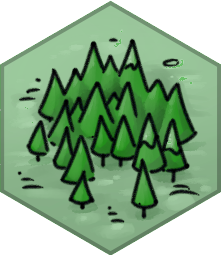
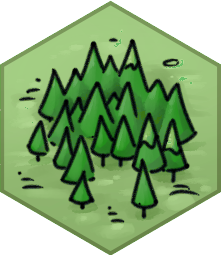
feat: add temperate forest terrain variant and update map generation logic; bump map generation version to 20

diff --git a/src/components/TerrainIcon.tsx b/src/components/TerrainIcon.tsx
@@ -4,6 +4,7 @@ import desertTileCactus from '../assets/terrain/desert-tile-cactus.png'
 import desertTileDunes from '../assets/terrain/desert-tile-dunes.png'
 import desertTileScrub from '../assets/terrain/desert-tile-scrub.png'
 import desertHillTile from '../assets/terrain/desert-hill-tile.png'
+import forestTile from '../assets/terrain/forest-tile.png'
 import forestTileFull from '../assets/terrain/forest-tile-full.png'
 import hillTile from '../assets/terrain/hill-tile.png'
 import hillTileFew from '../assets/terrain/hill-tile-few.png'
@@ -35,7 +36,7 @@ const TERRAIN_VARIANTS: Partial<Record<Terrain, readonly string[]>> = {
     plainTileBush,
     plainTileTrees,
   ],
-  forest: [forestTileFull],
+  forest: [forestTileFull, forestTile],
   hill: [hillTileFew, hillTile],
   mountain: [mountainTileFull, mountainTilePeak],
   water: [waterTile],

diff --git a/src/game/mapGenerator.ts b/src/game/mapGenerator.ts
@@ -36,6 +36,7 @@ const STARTING_RESOURCES = 15
 const MAX_GENERATION_ATTEMPTS = 128
 const STANDARD_CAPITAL_DISTANCE = 18
 const STANDARD_CAPITAL_DISTANCE_REFERENCE_COLUMNS = 42
+const OASIS_FEATURE_THRESHOLD = 0.95
 const SITE_PAIR_TYPES: readonly SiteType[] = ['village', 'farm', 'mine']
 const STARTING_UNIT_TYPES: readonly UnitType[] = [
   'infantry',
@@ -176,7 +177,7 @@ function terrainFromNoise(
   }
   if (adjustedMoisture > 0.61) return 'forest'
   if (adjustedMoisture < 0.4 && temperature > 0.58) {
-    return featureNoise > 0.97 ? 'oasis' : 'desert'
+    return featureNoise > OASIS_FEATURE_THRESHOLD ? 'oasis' : 'desert'
   }
   return 'plain'
 }

diff --git a/src/components/TerrainIcon.test.tsx b/src/components/TerrainIcon.test.tsx
@@ -36,6 +36,21 @@ describe('TerrainIcon', () => {
     )
   })
 
+  it.each([0, 1])('renders temperate forest variant %s', (variantIndex) => {
+    const { container } = render(
+      <TerrainIcon terrain="forest" variantIndex={variantIndex} />,
+    )
+
+    expect(container.querySelector('img')).toHaveAttribute(
+      'data-terrain-icon',
+      'forest',
+    )
+    expect(container.querySelector('img')).toHaveAttribute(
+      'data-terrain-variant',
+      String(variantIndex),
+    )
+  })
+
   it('renders the windswept tundra tile', () => {
     const { container } = render(
       <TerrainIcon terrain="tundra" variantIndex={0} />,

diff --git a/src/game/types.ts b/src/game/types.ts
@@ -14,7 +14,7 @@ export type Terrain =
 export type MapType = 'balanced' | 'plains' | 'mountainous' | 'forested'
 
 export const GAME_SCHEMA_VERSION = 8
-export const MAP_GENERATION_VERSION = 17
+export const MAP_GENERATION_VERSION = 20
 export const SUPPORTED_MAP_GENERATION_VERSIONS: readonly number[] = [
   5,
   6,
@@ -28,9 +28,12 @@ export const SUPPORTED_MAP_GENERATION_VERSIONS: readonly number[] = [
   14,
   15,
   16,
+  17,
+  18,
+  19,
   MAP_GENERATION_VERSION,
 ]
-export const FOREST_TERRAIN_VARIANT_COUNT = 1
+export const FOREST_TERRAIN_VARIANT_COUNT = 2
 
 export type Position = {
   q: number

diff --git a/src/game/mapGenerator.test.ts b/src/game/mapGenerator.test.ts
@@ -424,4 +424,16 @@ describe('procedural map generation', () => {
       }
     }
   })
+
+  it('uses both temperate forest variants across generated maps', () => {
+    const variants = new Set(
+      Array.from({ length: 8 }, (_, index) =>
+        generateGameState(`forest-variant-${index}`).tiles
+          .filter((tile) => tile.terrain === 'forest')
+          .map((tile) => tile.terrainVariant),
+      ).flat(),
+    )
+
+    expect(variants).toEqual(new Set([0, 1]))
+  })
 })

diff --git a/src/storage/saveGame.test.ts b/src/storage/saveGame.test.ts
@@ -87,7 +87,7 @@ describe('saved games', () => {
       expect(loaded.value.gameState.mapGenerationVersion).toBe(5)
       expect(saveGame(loaded.value.gameState, storage).ok).toBe(true)
     }
-    expect(MAP_GENERATION_VERSION).toBe(17)
+    expect(MAP_GENERATION_VERSION).toBe(20)
   })
 
   it('loads schema 8 saves created with the previous 15x10 board', () => {
